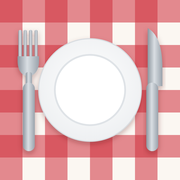
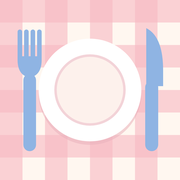
Icona piatta in colori pastello
Claude-Session: https://claude.ai/code/session_01H55r2qP1RDFVZNegRDYB4e

diff --git a/tools/icona.html b/tools/icona.html
@@ -3,36 +3,28 @@
 <svg width="1024" height="1024" viewBox="0 0 1024 1024" xmlns="http://www.w3.org/2000/svg">
   <defs>
     <pattern id="g" width="256" height="256" patternUnits="userSpaceOnUse">
-      <rect width="256" height="256" fill="#fbf7f2"/>
-      <rect x="0" y="0" width="128" height="256" fill="#d0303c" opacity=".55"/>
-      <rect x="0" y="0" width="256" height="128" fill="#d0303c" opacity=".55"/>
+      <rect width="256" height="256" fill="#fff7f0"/>
+      <rect width="128" height="256" fill="#f6b8c1" opacity=".6"/>
+      <rect width="256" height="128" fill="#f6b8c1" opacity=".6"/>
     </pattern>
-    <radialGradient id="pl" cx="50%" cy="45%" r="55%">
-      <stop offset="0" stop-color="#ffffff"/><stop offset="1" stop-color="#eef0f2"/>
-    </radialGradient>
-    <linearGradient id="metal" x1="0" x2="1">
-      <stop offset="0" stop-color="#8d969f"/><stop offset=".45" stop-color="#d9dee3"/><stop offset="1" stop-color="#9aa3ac"/>
-    </linearGradient>
-    <filter id="sh" x="-20%" y="-20%" width="140%" height="140%"><feDropShadow dx="0" dy="14" stdDeviation="16" flood-color="#5a1a1f" flood-opacity=".35"/></filter>
   </defs>
   <rect width="1024" height="1024" fill="url(#g)"/>
   <!-- piatto -->
-  <g filter="url(#sh)"><circle cx="512" cy="512" r="292" fill="url(#pl)"/></g>
-  <circle cx="512" cy="512" r="292" fill="none" stroke="#d9dde1" stroke-width="6"/>
-  <circle cx="512" cy="512" r="200" fill="#ffffff" stroke="#dfe3e7" stroke-width="10"/>
+  <circle cx="512" cy="532" r="292" fill="#e9b3bc" opacity=".55"/>
+  <circle cx="512" cy="512" r="292" fill="#ffffff"/>
+  <circle cx="512" cy="512" r="196" fill="#fdf1ec" stroke="#f3d3d8" stroke-width="14"/>
   <!-- forchetta -->
-  <g filter="url(#sh)" fill="url(#metal)">
-    <rect x="104" y="170" width="21" height="170" rx="10"/>
-    <rect x="135" y="170" width="17" height="170" rx="8"/>
-    <rect x="166" y="170" width="17" height="170" rx="8"/>
-    <rect x="197" y="170" width="17" height="170" rx="8"/>
-    <path d="M100 320 h122 v24 q0 66 -42 86 h-38 q-42 -20 -42 -86 z"/>
-    <rect x="146" y="410" width="36" height="80" rx="12"/>
-    <rect x="130" y="470" width="68" height="390" rx="34"/>
+  <g fill="#8fb4e3">
+    <rect x="100" y="168" width="26" height="180" rx="13"/>
+    <rect x="137" y="168" width="26" height="180" rx="13"/>
+    <rect x="174" y="168" width="26" height="180" rx="13"/>
+    <rect x="211" y="168" width="26" height="180" rx="13"/>
+    <path d="M100 320 h137 v20 q0 76 -50 96 h-37 q-50 -20 -50 -96 z"/>
+    <rect x="133" y="420" width="72" height="440" rx="36"/>
   </g>
   <!-- coltello -->
-  <g filter="url(#sh)" fill="url(#metal)">
-    <path d="M840 160 q84 44 84 230 v100 h-84 z"/>
-    <rect x="832" y="470" width="68" height="390" rx="34"/>
+  <g fill="#8fb4e3">
+    <path d="M832 160 q96 48 96 240 v90 h-96 z"/>
+    <rect x="826" y="460" width="74" height="400" rx="37"/>
   </g>
 </svg></body></html>
